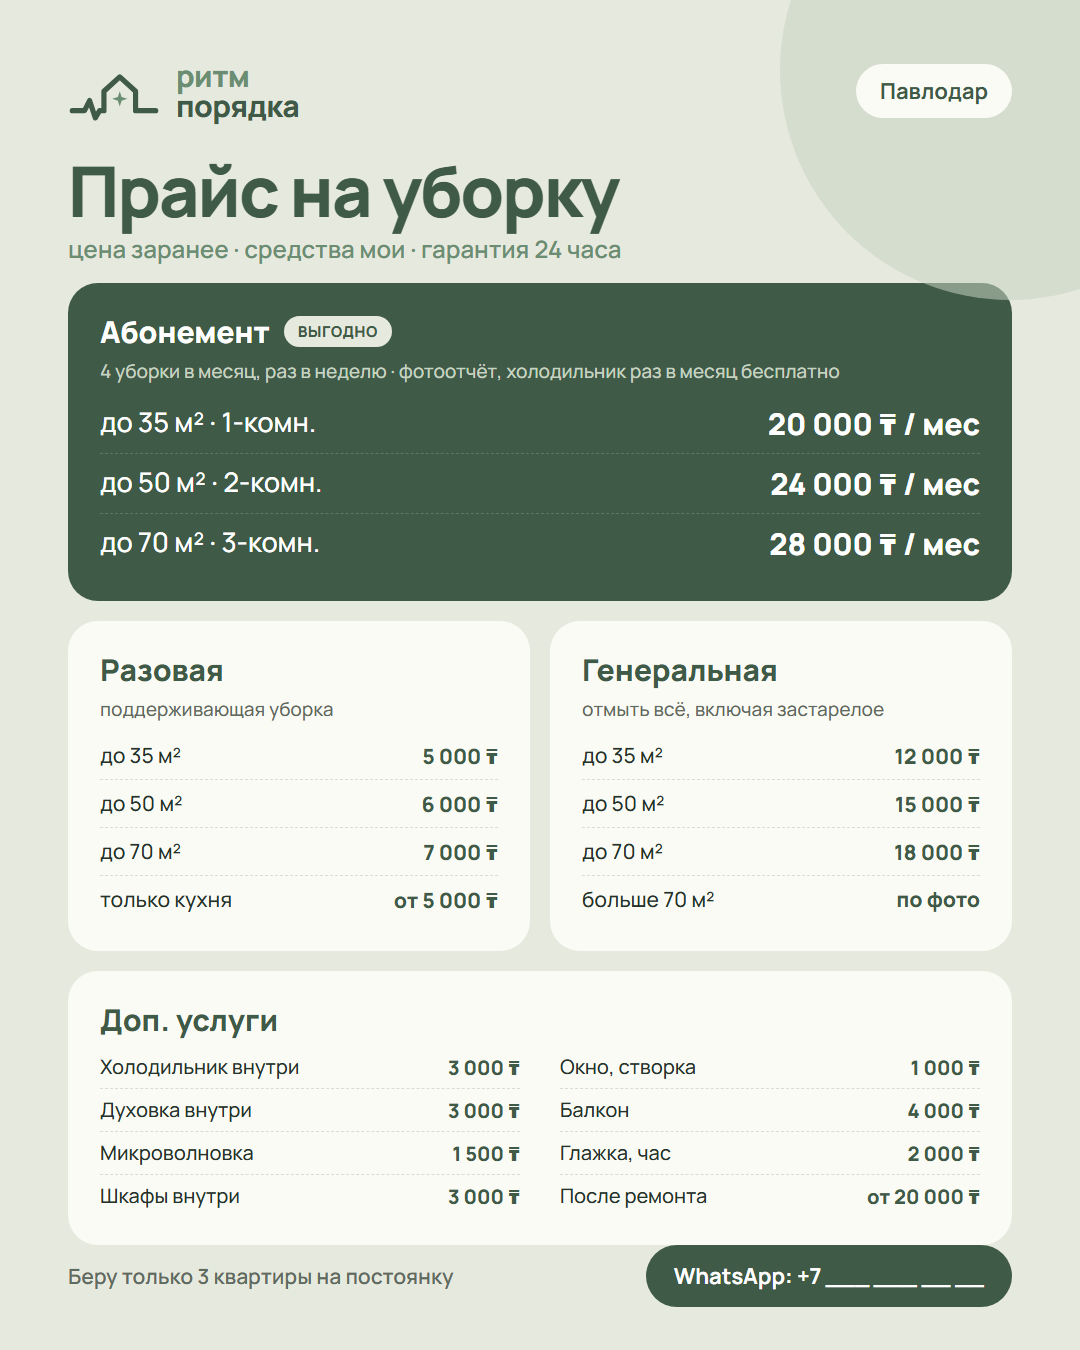
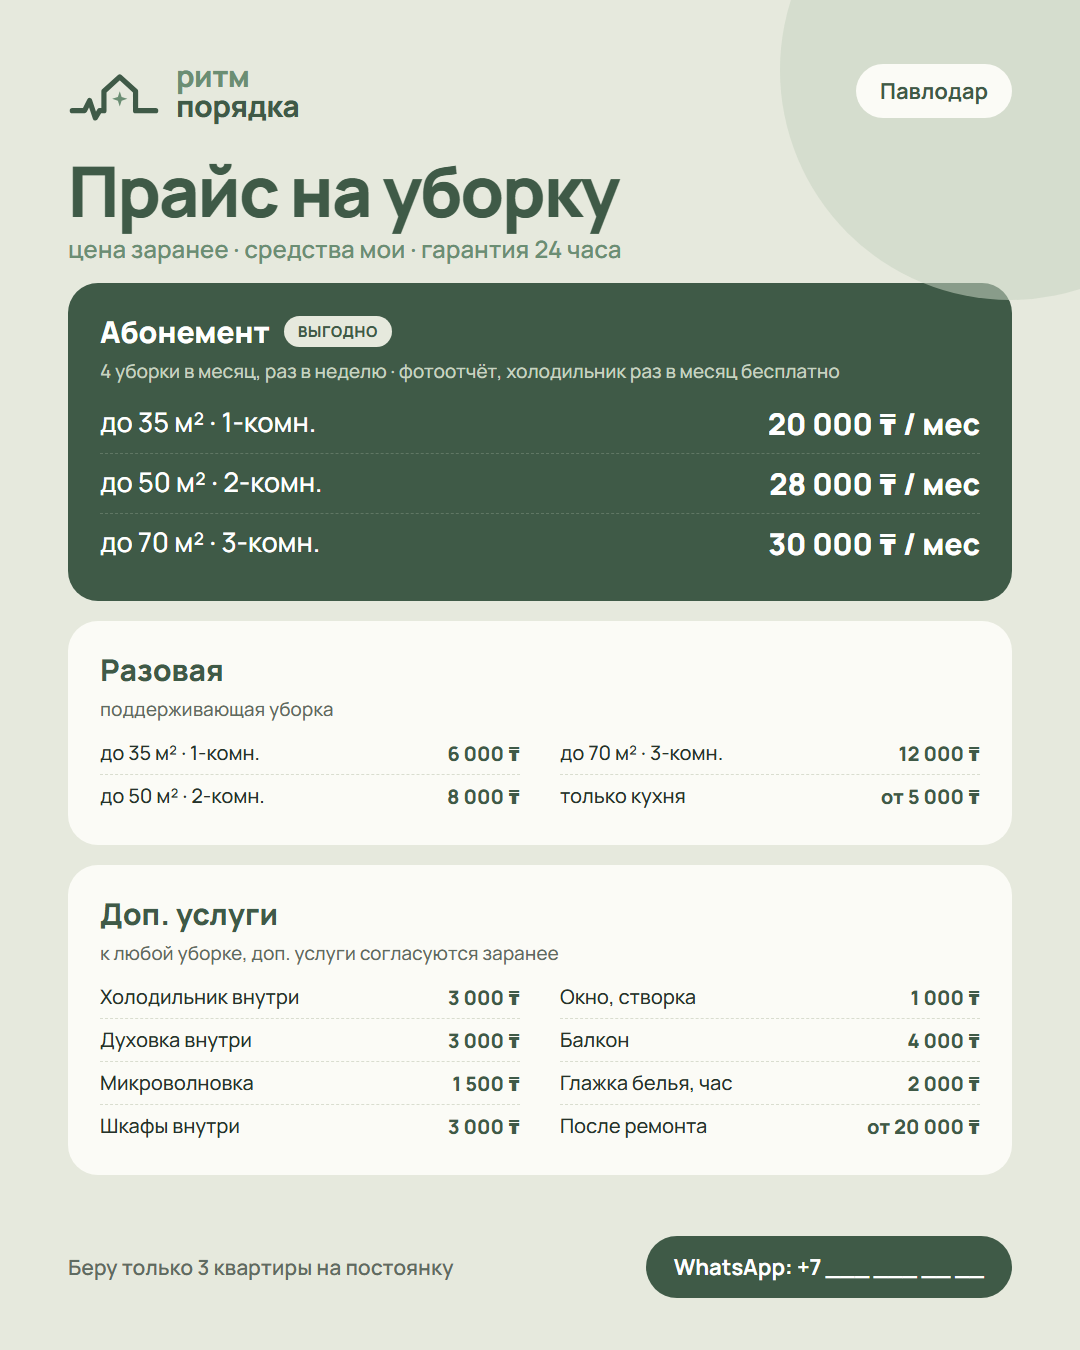
Прайс: без генеральной, новые цены, подпись доп. услуг, глажка белья

Changed region(s): [[0.0611, 0.4356, 0.9472, 0.9956], [0.7028, 0.3422, 0.7639, 0.4044]]

diff --git a/index.html b/index.html
@@ -114,7 +114,7 @@
   .calc-foot{font-size:13.5px;margin:16px 2px 0;text-align:center}
 
   /* ===== ВЕСЬ ПРАЙС ===== */
-  .plist{display:grid;grid-template-columns:repeat(3,1fr);gap:16px}
+  .plist{display:grid;grid-template-columns:repeat(2,1fr);gap:16px}
   .pcard{background:var(--card);border-radius:var(--r);padding:24px;box-shadow:var(--shadow)}
   .pcard h3{display:flex;align-items:center;gap:10px;margin-bottom:4px}
   .pcard h3 i{font-style:normal;font-size:11.5px;font-weight:700;background:var(--light);color:var(--deep);border-radius:99px;padding:3px 9px;letter-spacing:.02em}
@@ -346,7 +346,7 @@
           </div>
         </div>
       </div>
-      <p class="muted calc-foot">«Ценность» — 4 уборки по нижней цене клининга в Павлодаре (Kaspi, OLX, ноябрь 2026) плюс бонусы. Генеральная уборка, окна, холодильник и духовка внутри — <a href="#prices" style="color:inherit">в прайсе ниже</a>.</p>
+      <p class="muted calc-foot">«Ценность» — 4 уборки по нижней цене клининга в Павлодаре (Kaspi, OLX, ноябрь 2026) плюс бонусы. Окна, холодильник и духовка внутри — <a href="#prices" style="color:inherit">в прайсе ниже</a>.</p>
     </div>
   </section>
 
@@ -356,7 +356,7 @@
       <h2>Весь прайс</h2>
       <div class="plist" id="plist"></div>
       <p class="muted plist-foot">Средства и инвентарь — мои, они уже в цене. Квартира больше 70 м² или что-то нестандартное — пришлите фото, назову цену заранее.
-        <span class="todo">❓ цены генеральной и доп. услуг — мой черновик (≈ вдвое ниже рынка Павлодара, как и абонемент); подтвердить</span></p>
+        <span class="todo">❓ цены доп. услуг — мой черновик (≈ вдвое ниже рынка Павлодара, как и абонемент); подтвердить</span></p>
     </div>
   </section>
 
@@ -523,8 +523,8 @@
 <script>
   // ===== НАСТРОЙКИ — менять здесь (и те же цены в crm.html) =====
   const PHONE = "7XXXXXXXXXX";                         // номер WhatsApp без +, пробелов и скобок
-  const SUB  = { "35": 20000, "50": 24000, "70": 28000 }; // абонемент за месяц (4 уборки)
-  const ONCE = { "35": 5000,  "50": 6000,  "70": 7000  }; // разовая уборка
+  const SUB  = { "35": 20000, "50": 28000, "70": 30000 }; // абонемент за месяц (4 уборки)
+  const ONCE = { "35": 6000,  "50": 8000,  "70": 12000 }; // разовая уборка
   const KITCHEN = 5000;                                // только кухня, «от»
   const HOURS_SAVED = 16;                              // сколько часов в месяц клиент тратит на уборку сам (оценка)
   const MARKET_VISIT = { "35": 10000, "50": 12000, "70": 15000 }; // рынок Павлодара за визит (Kaspi/OLX, ноябрь 2026) — для якоря
@@ -579,12 +579,11 @@
   document.querySelectorAll(".wa-link").forEach(a => a.href = waUrl("Здравствуйте! Хочу узнать про уборку квартиры. Мой район: "));
   render();
 
-  // ===== ПРАЙС: генеральная и доп. услуги (черновик — подтвердить) =====
-  const GENERAL = { "35": 12000, "50": 15000, "70": 18000 };
+  // ===== ПРАЙС: доп. услуги (черновик — подтвердить) =====
   const EXTRAS = [
     ["Холодильник внутри", 3000], ["Духовка внутри", 3000], ["Микроволновка внутри", 1500],
     ["Кухонные шкафы внутри", 3000], ["Окно — одна створка", 1000], ["Балкон или лоджия", 4000],
-    ["Глажка — 1 час", 2000], ["Уборка после ремонта", "от 20 000 ₸"]
+    ["Глажка белья — 1 час", 2000], ["Уборка после ремонта", "от 20 000 ₸"]
   ];
   const AREAS = { "35": "до 35 м² · 1-комн.", "50": "до 50 м² · 2-комн.", "70": "до 70 м² · 3-комн." };
   const row = (a, b) => `<div class="prow"><span>${a}</span><b>${typeof b === "number" ? fmt(b) : b}</b></div>`;
@@ -593,8 +592,7 @@
   document.getElementById("plist").innerHTML =
     `<div class="pcard hl"><h3>Абонемент <i>ВЫГОДНО</i></h3><p class="sub">4 уборки в месяц, раз в неделю · бонусы и Ритм-карта</p>${byArea(SUB)}</div>` +
     `<div class="pcard"><h3>Разовая уборка</h3><p class="sub">поддерживающая: пыль, полы, кухня, санузел</p>${byArea(ONCE)}${row("Только кухня", "от " + fmt(KITCHEN))}</div>` +
-    `<div class="pcard"><h3>Генеральная уборка</h3><p class="sub">всё из разовой + отмыть застарелое, двери, плинтусы, светильники</p>${byArea(GENERAL)}${row("Больше 70 м²", "по фото")}</div>` +
-    `<div class="pcard wide"><h3>Доп. услуги</h3><p class="sub">к любой уборке — скажите заранее, время добавлю</p><div class="cols"><div>${EXTRAS.slice(0, half).map(e => row(...e)).join("")}</div><div>${EXTRAS.slice(half).map(e => row(...e)).join("")}</div></div></div>`;
+    `<div class="pcard wide"><h3>Доп. услуги</h3><p class="sub">к любой уборке, доп. услуги согласуются заранее</p><div class="cols"><div>${EXTRAS.slice(0, half).map(e => row(...e)).join("")}</div><div>${EXTRAS.slice(half).map(e => row(...e)).join("")}</div></div></div>`;
 
   // ===== ДО/ПОСЛЕ: пары — два файла (ползунок) или одна склеенная картинка =====
   const BA = {

diff --git a/brand/price.html b/brand/price.html
@@ -39,25 +39,23 @@
     <h2>Абонемент <i>ВЫГОДНО</i></h2>
     <p>4 уборки в месяц, раз в неделю · фотоотчёт, холодильник раз в месяц бесплатно</p>
     <div class="row"><span>до 35 м² · 1-комн.</span><b>20 000 ₸ / мес</b></div>
-    <div class="row"><span>до 50 м² · 2-комн.</span><b>24 000 ₸ / мес</b></div>
-    <div class="row"><span>до 70 м² · 3-комн.</span><b>28 000 ₸ / мес</b></div>
+    <div class="row"><span>до 50 м² · 2-комн.</span><b>28 000 ₸ / мес</b></div>
+    <div class="row"><span>до 70 м² · 3-комн.</span><b>30 000 ₸ / мес</b></div>
   </div>
 
-  <div class="grid">
-    <div class="card"><h2>Разовая</h2><p>поддерживающая уборка</p>
-      <div class="row"><span>до 35 м²</span><b>5 000 ₸</b></div><div class="row"><span>до 50 м²</span><b>6 000 ₸</b></div>
-      <div class="row"><span>до 70 м²</span><b>7 000 ₸</b></div><div class="row"><span>только кухня</span><b>от 5 000 ₸</b></div></div>
-    <div class="card"><h2>Генеральная</h2><p>отмыть всё, включая застарелое</p>
-      <div class="row"><span>до 35 м²</span><b>12 000 ₸</b></div><div class="row"><span>до 50 м²</span><b>15 000 ₸</b></div>
-      <div class="row"><span>до 70 м²</span><b>18 000 ₸</b></div><div class="row"><span>больше 70 м²</span><b>по фото</b></div></div>
+  <div class="card extra"><h2>Разовая</h2><p>поддерживающая уборка</p>
+    <div class="cols">
+      <div><div class="row"><span>до 35 м² · 1-комн.</span><b>6 000 ₸</b></div><div class="row"><span>до 50 м² · 2-комн.</span><b>8 000 ₸</b></div></div>
+      <div><div class="row"><span>до 70 м² · 3-комн.</span><b>12 000 ₸</b></div><div class="row"><span>только кухня</span><b>от 5 000 ₸</b></div></div>
+    </div>
   </div>
 
-  <div class="card extra"><h2>Доп. услуги</h2>
+  <div class="card extra"><h2>Доп. услуги</h2><p>к любой уборке, доп. услуги согласуются заранее</p>
     <div class="cols">
       <div><div class="row"><span>Холодильник внутри</span><b>3 000 ₸</b></div><div class="row"><span>Духовка внутри</span><b>3 000 ₸</b></div>
         <div class="row"><span>Микроволновка</span><b>1 500 ₸</b></div><div class="row"><span>Шкафы внутри</span><b>3 000 ₸</b></div></div>
       <div><div class="row"><span>Окно, створка</span><b>1 000 ₸</b></div><div class="row"><span>Балкон</span><b>4 000 ₸</b></div>
-        <div class="row"><span>Глажка, час</span><b>2 000 ₸</b></div><div class="row"><span>После ремонта</span><b>от 20 000 ₸</b></div></div>
+        <div class="row"><span>Глажка белья, час</span><b>2 000 ₸</b></div><div class="row"><span>После ремонта</span><b>от 20 000 ₸</b></div></div>
     </div>
   </div>
 
